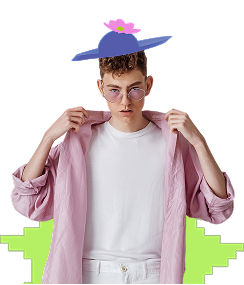
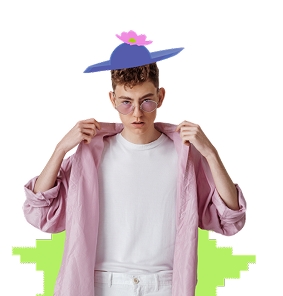
#58, #103, changing some design elements and responsiveness + efficiency

Changed region(s): [[0.0, 0.0561, 1.0, 1.0], [0.2869, 0.5614, 0.3156, 0.5895]]

diff --git a/website/campaignsite/src/css/home.css b/website/campaignsite/src/css/home.css
@@ -44,7 +44,57 @@
     text-align: center;
 }
 
-.pov__cards {}
+.pov__cards {
+    display: flex;
+    flex-flow: row wrap;
+    justify-content: space-around;
+}
+
+.pov__card {
+
+    background: var(--color-white);
+    max-width: 20rem;
+    width: 100%;
+}
+
+.pov__center {
+    display: grid;
+}
+
+.pov__image {
+    justify-self: end;
+}
+
+.pov__title {
+    font-family: "AntwerpRegular";
+    font-size: 24px;
+    padding: 1rem;
+}
+
+.pov__content {
+    display: flex;
+    flex-direction: column;
+    place-items: center;
+    height: 100%;
+    justify-content: flex-end;
+}
+
+.pov__bottom {
+    display: grid;
+    background: var(--color-accent-green);
+    padding: 1rem;
+    width: 100%;
+    min-height: 7rem;
+    max-height: 7rem;
+    align-self: end;
+}
+
+.pov__text {
+    text-align: center;
+    font-family: "SunAntwerpen";
+    font-weight: 700;
+    font-size: 1rem;
+}
 
 /* Featured povs */
 .featured__submissions {
@@ -128,7 +178,6 @@
     flex-flow: column;
     gap: 2rem;
     padding: 5rem 0;
-    width: 100%;
 }
 
 .citytrip__title {
@@ -146,6 +195,7 @@
 
 .citytrip__text {
     font-family: "SunAntwerpen";
+    justify-content: space-between;
     font-weight: 500;
     font-size: var(--font-size-s);
     max-width: 34rem;
@@ -153,15 +203,16 @@
 
 .citytrip__steps {
     display: flex;
-    gap: var(--space-l);
+    justify-content: space-between;
     align-items: end;
-    padding: 1rem 0;
     overflow: hidden;
+    width: 100%;
 }
 
 .citytrip__step {
-    align-items: end;
+    height: 100%;
 }
+
 
 .step__content {
     display: grid;
@@ -169,6 +220,18 @@
     gap: 2rem;
     color: var(--color-blue);
     font-weight: 700;
+    max-width: 5rem;
+}
+
+.step__icon {
+    display: flex;
+    width: min-content;
+    height: auto;
+}
+
+.step__text {
+    text-align: center;
+    font-size: 1rem;
 }
 
 /* Locations */
@@ -201,6 +264,12 @@
 }
 
 .location {
+    display: grid;
+    place-items: center;
+}
+
+.location__text {
+    display: grid;
     place-items: center;
 }
 
@@ -208,7 +277,11 @@
     font-family: "AntwerpRegular";
     font-weight: 500;
     color: var(--color-accent-green);
-    padding: 1rem 0;
+}
+
+.location__place {
+    font-size: 1rem;
+    color: var(--color-white);
 }
 
 .locations__bottom {
@@ -218,7 +291,11 @@
 /* Media queries, responsive design */
 @media screen and (min-width: 24rem) {}
 
-@media screen and (min-width: 36rem) {}
+@media screen and (min-width: 36rem) {
+    .step__content {
+        max-width: max-content;
+    }
+}
 
 @media screen and (min-width: 50rem) {
     .citytrip__container {

diff --git a/website/campaignsite/src/js/home/script.js b/website/campaignsite/src/js/home/script.js
@@ -3,35 +3,9 @@ import { ScrollTrigger } from "gsap/ScrollTrigger";
 
 gsap.registerPlugin(ScrollTrigger);
 
-const handleToggleHero = () => {
-    let $heroImg = document.querySelectorAll('.hero__image');
-    let $carouselDot = document.querySelectorAll('.carousel__dot');
-
-    let currentIndex = 0
-
-    console.log($heroImg[0]);
-    console.log($carouselDot);
-
-    window.setInterval(() => {
-        document.querySelector('.hero__image--active').classList.toggle("hero__image--active");
-        document.querySelector('.carousel__dot--active').classList.toggle("carousel__dot--active");
-
-        if (currentIndex <= $carouselDot.length - 2) {
-            $heroImg[currentIndex].classList.toggle("hero__image--active");
-            $carouselDot[currentIndex].classList.toggle("carousel__dot--active");
-            currentIndex++;
-        }
-        else {
-            $heroImg[currentIndex].classList.toggle("hero__image--active");
-            $carouselDot[currentIndex].classList.toggle("carousel__dot--active");
-            currentIndex = 0;
-        }
-        console.log(currentIndex);
-    }, 2500);
-}
 
 const init = () => {
-    // handleToggleHero();
+
 }
 
 init()

diff --git a/website/campaignsite/src/css/global.css b/website/campaignsite/src/css/global.css
@@ -301,49 +301,6 @@ Image {
     box-shadow: 0rem 0rem var(--color-accent-green);
 }
 
-.pov__cards {
-    display: flex;
-    flex-flow: row wrap;
-    justify-content: space-around;
-}
-
-.pov__card {
-    background: var(--color-white);
-    max-width: 18rem;
-    width: 100%;
-}
-
-.pov__image {
-    justify-self: end;
-}
-
-.pov__title {
-    font-family: "AntwerpRegular";
-    font-size: 24px;
-    padding: 1rem;
-}
-
-.pov__content {
-    display: grid;
-    place-items: center;
-    height: 100%;
-}
-
-.pov__bottom {
-    background: var(--color-accent-green);
-    padding: 1rem;
-    width: 100%;
-    min-height: 7rem;
-    align-self: end;
-}
-
-.pov__text {
-    text-align: center;
-    font-family: "SunAntwerpen";
-    font-weight: 700;
-    font-size: 1rem;
-}
-
 /* featured */
 .featured {}
 
